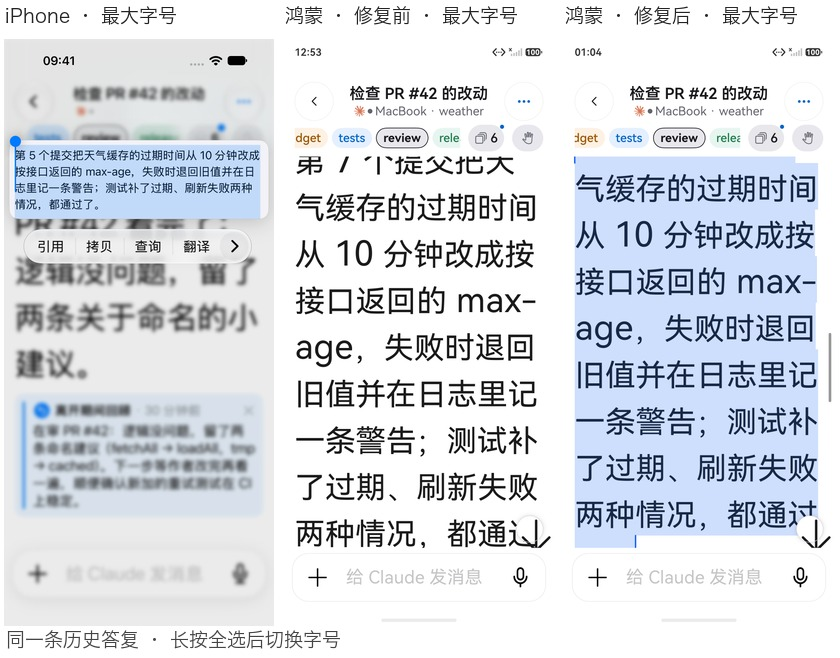
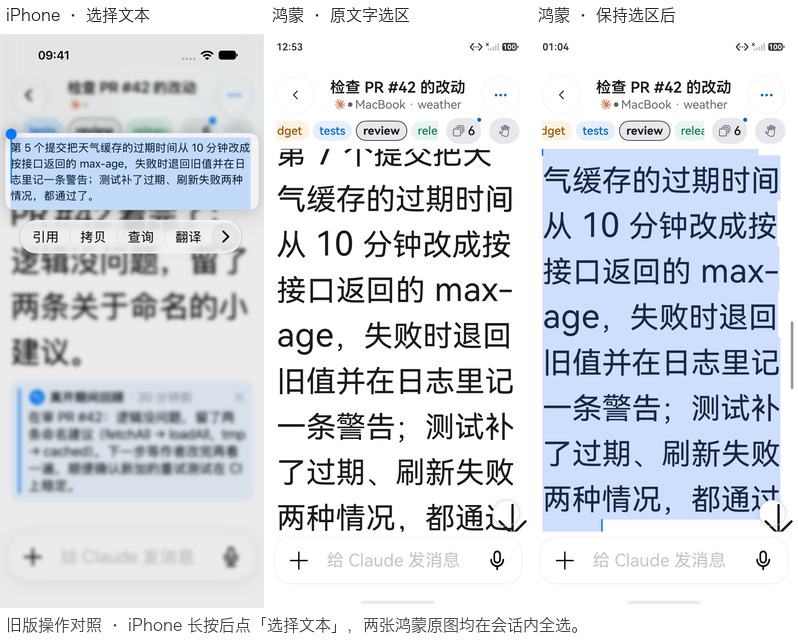
Publish native pairing, keyboard, SSH and knowledge-map comparisons for #12495

diff --git a/pr-assets/12495/phone-interactions/README.md b/pr-assets/12495/phone-interactions/README.md
@@ -17,3 +17,25 @@ The native iPhone and revised HarmonyOS sheets use RGB 28, 28, 30 behind their c
 ## Subscription meters · 机器订阅用量
 
 The meter with a pacing indicator measured 8 pt/vp on each platform in all three appearances. The dark blue differs by one red-channel level. The hatched area starts at the verified protection threshold. The HarmonyOS capture used `64ccc8f9`. [Native screenshots](subscriptions.png)
+
+## Pairing, camera and QR photos · 配对、相机与照片
+
+These are the ordinary connection screens on the public `8572e8b8` build. Across light appearance, dark appearance and largest text, the largest measured difference among the listed controls was 1.033 pt/vp. In a separate camera-permitted run the system service started the inline 1280×720 stream in all three appearances. The stock photo picker returned the synthetic QR. Cancelling its decoded destination sent zero requests to it. [Six native pairing comparisons](pairing-sheets.jpg)
+
+## SSH fingerprint approval · SSH 指纹确认
+
+The ordinary iPhone and HarmonyOS forms displayed the first host fingerprint and a changed fingerprint. The first prompt sent zero authentication requests. Rotating the key again before tapping confirmation also sent zero. Confirming an unchanged, displayed key authorized the selected test destination. HarmonyOS source `c5ca42d9` and iPhone source `a21e4c50`. [Native first-use and changed-key screens](ssh-fingerprint-comparison.png)
+
+## Knowledge map · 知识导图
+
+Both clients read 5 topics, 27 points and 9 distinct sources. The native routes cover topic and project grouping, expanding and collapsing priorities, reading a point and returning to the original scope. The reference iPhone used `a21e4c50` and the HarmonyOS capture used `b8352dae`. The upper edge of the statistics card was within 0.37 pt/vp and the point reader’s close-button center was within 1.17 pt/vp in the three appearances.
+
+| Appearance | Topics | Projects | Point detail |
+| --- | --- | --- | --- |
+| Light | [topics](knowledge-light-topics.jpg) | [projects](knowledge-light-projects.jpg) | [point](knowledge-light-point.jpg) |
+| Dark | [topics](knowledge-dark-topics.jpg) | [projects](knowledge-dark-projects.jpg) | [point](knowledge-dark-point.jpg) |
+| Largest type | [topics](knowledge-large-topics.jpg) | [projects](knowledge-large-projects.jpg) | [point](knowledge-large-point.jpg) |
+
+## System keyboard · 系统输入法
+
+The same stock HarmonyOS input method was measured on the same device with the application held in dark appearance. Switching the operating system to dark moved its keyboard-region median from 225 to 70. The iPhone dark keyboard measured 68. The image preserves each platform's real keyboard and layout. The HarmonyOS capture used `33748351`. [Native keyboards in all three states](keyboard-appearance.jpg)
